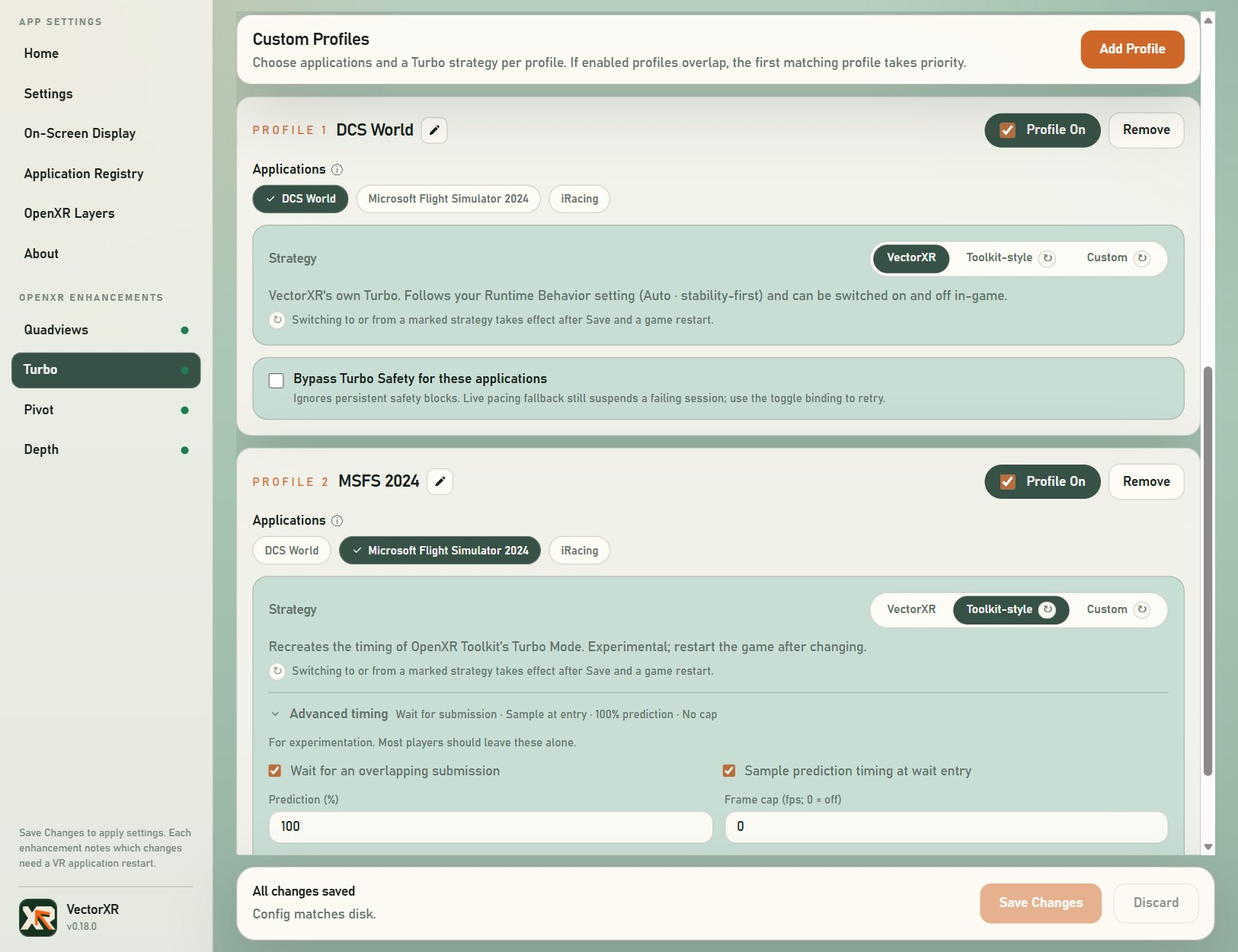
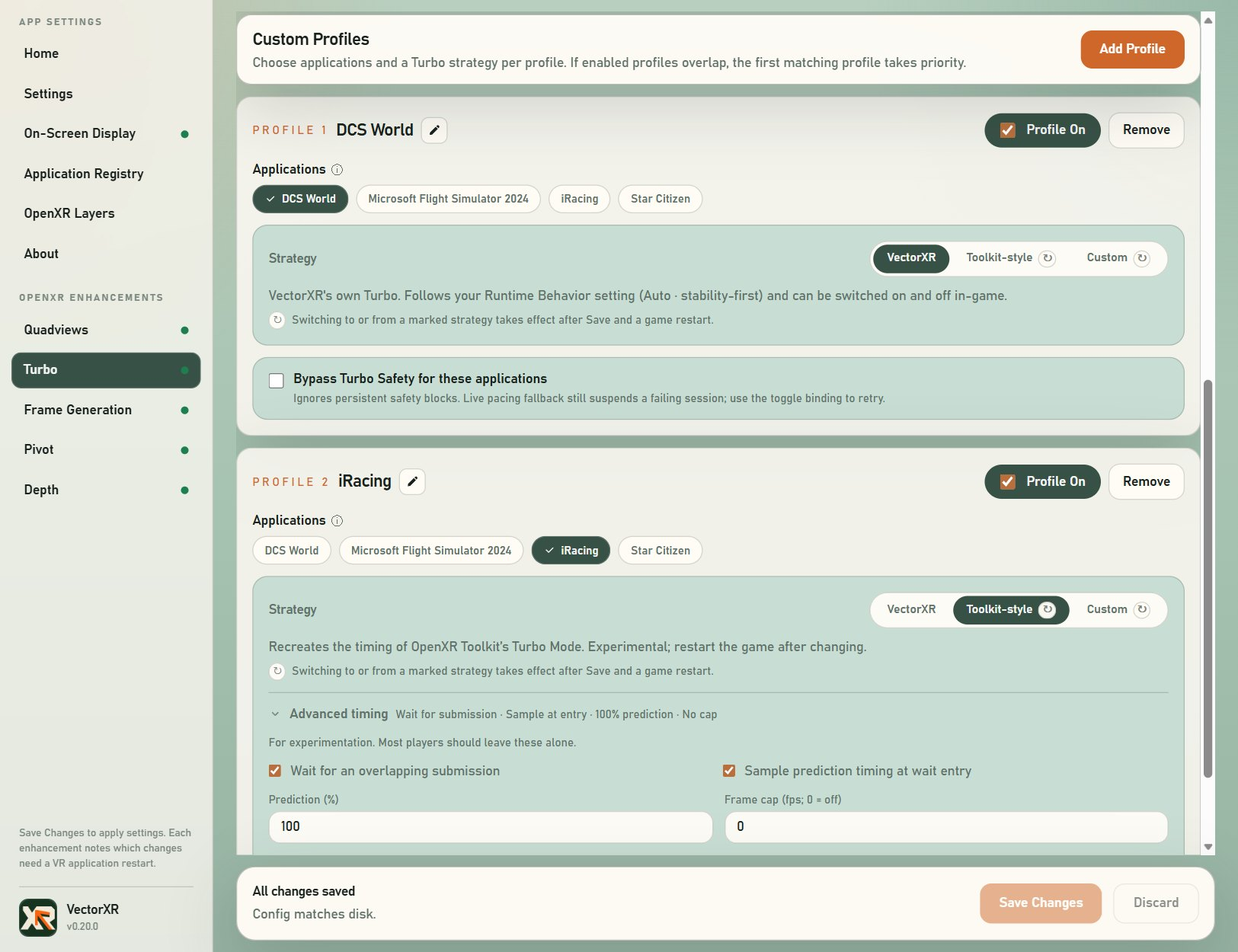
Refresh the README, usage guide and screenshots for 0.20
Recapture every documentation screenshot from the 0.20 app and add the
first Frame Generation shots (the page, and a profile with NVIDIA hardware
motion and the Shader fallback). The capture script now answers the About
tab's update check with the release being documented, so it reads current
instead of naming the previous release, and the sample configuration gives
Frame Generation its own games so its page shows no Turbo conflict notice.

README and usage guide: Turbo on SteamVR replaces the 0.17 activation note;
Interpolate can use hardware flow in Dynamic with the automatic fallback;
depth is used in Direct3D 12 and Vulkan games (not through the Direct3D 11
bridge), sharpens nearby detail, and shows as "uses depth" on the OSD;
eleven languages; VectorXR Enabled off now also stops the OSD; eye
tracking while another window has focus and the no-data log line; and a
Varjo FAQ on overlays at the Peripheral resolution.

The About intro names Turbo and Frame Generation, in all eleven languages.

diff --git a/scripts/docs-screenshots/capture.ts b/scripts/docs-screenshots/capture.ts
@@ -11,7 +11,7 @@
 // Uses headless Microsoft Edge through the Chrome DevTools Protocol, so no
 // browser automation package is required. Set VECTORXR_BROWSER to use Chrome.
 import { spawn } from 'node:child_process'
-import { mkdtempSync, rmSync, writeFileSync } from 'node:fs'
+import { mkdtempSync, readFileSync, rmSync, writeFileSync } from 'node:fs'
 import { tmpdir } from 'node:os'
 import { dirname, join, resolve } from 'node:path'
 import { fileURLToPath } from 'node:url'
@@ -28,11 +28,13 @@ const language = process.env.VECTORXR_SHOTS_LANGUAGE ?? ''
 class Cdp {
   private id = 0
   private pending = new Map<number, { resolve: (value: any) => void; reject: (error: Error) => void }>()
+  private listeners = new Map<string, (params: any) => void>()
   private socket: WebSocket
   constructor(socket: WebSocket) {
     this.socket = socket
     socket.addEventListener('message', (event) => {
       const message = JSON.parse(String(event.data))
+      if (message.method) this.listeners.get(message.method)?.(message.params)
       const waiter = message.id ? this.pending.get(message.id) : undefined
       if (!waiter) return
       this.pending.delete(message.id)
@@ -50,7 +52,32 @@ class Cdp {
     this.socket.send(JSON.stringify({ id, method, params }))
     return new Promise<any>((resolve, reject) => this.pending.set(id, { resolve, reject }))
   }
+  on(method: string, listener: (params: any) => void) { this.listeners.set(method, listener) }
   close() { this.socket.close() }
+}
+
+// The About tab's update check asks GitHub for the latest release. Answer it
+// with the release being documented (the newest patch notes entry), so the
+// screenshots show it as current before it is published.
+async function answerUpdateCheck(cdp: Cdp) {
+  const [release] = JSON.parse(readFileSync(join(root, 'app', 'src', 'lib', 'patchNotes.json'), 'utf8'))
+  const body = JSON.stringify({
+    tag_name: `v${release.version}`,
+    name: `VectorXR ${release.version}`,
+    html_url: `https://github.com/DienerTech/vectorxr/releases/tag/v${release.version}`,
+    published_at: `${release.date}T12:00:00Z`,
+    body: '',
+    assets: [],
+  })
+  cdp.on('Fetch.requestPaused', (event) => {
+    void cdp.send('Fetch.fulfillRequest', {
+      requestId: event.requestId,
+      responseCode: 200,
+      responseHeaders: [{ name: 'Content-Type', value: 'application/json' }, { name: 'Access-Control-Allow-Origin', value: '*' }],
+      body: Buffer.from(body).toString('base64'),
+    })
+  })
+  await cdp.send('Fetch.enable', { patterns: [{ urlPattern: '*api.github.com/repos/DienerTech/vectorxr/releases*' }] })
 }
 
 const sleep = (ms: number) => new Promise((done) => setTimeout(done, ms))
@@ -133,6 +160,10 @@ const shots: Shot[] = [
   { name: 'home', tabOnly: true, run: tab('home') },
   { name: 'home-dark', theme: 'dark', tabOnly: true, run: tab('home') },
   { name: 'settings', tabOnly: true, run: tab('core') },
+  { name: 'framegen', tabOnly: true, run: tab('framegen') },
+  { name: 'framegen-profiles', run: async (p) => {
+    await p.tab('framegen'); await p.scrollTo('Custom Profiles', 16, 'h2, h3, p, span, div')
+  } },
   { name: 'osd', run: async (p) => { await p.tab('osd'); await p.click('Legible'); await p.top() } },
   { name: 'osd-compact', run: async (p) => {
     await p.tab('osd'); await p.click('Compact'); await p.click('Legible'); await p.scrollTo('Compact', 16, 'button')
@@ -175,6 +206,7 @@ async function main() {
     const cdp = await Cdp.connect(target.webSocketDebuggerUrl)
     await cdp.send('Page.enable')
     await cdp.send('Runtime.enable')
+    await answerUpdateCheck(cdp)
     await cdp.send('Emulation.setDeviceMetricsOverride', { ...viewport, mobile: false })
     await cdp.send('Emulation.setEmulatedMedia', { features: [{ name: 'prefers-reduced-motion', value: 'reduce' }] })
     const page = new Page(cdp)

diff --git a/scripts/docs-screenshots/seed-config.ts b/scripts/docs-screenshots/seed-config.ts
@@ -1,6 +1,7 @@
 // Builds the sample configuration shown in documentation screenshots, using
 // the desktop app's own model factories so it always matches the schema.
 import {
+  createFrameGenProfile,
   createPivotProfile,
   createPivotQuickView,
   createProfile,
@@ -18,6 +19,7 @@ export function sampleConfig() {
     { id: 'dcs-world', name: 'DCS World', enabled: true, match: { exe: 'DCS.exe' } },
     { id: 'msfs-2024', name: 'Microsoft Flight Simulator 2024', enabled: true, match: { exe: 'FlightSimulator2024.exe' } },
     { id: 'iracing', name: 'iRacing', enabled: true, match: { exe: 'iRacingSim64DX11.exe' } },
+    { id: 'star-citizen', name: 'Star Citizen', enabled: true, match: { exe: 'StarCitizen.exe' } },
   ]
   config.applications = applications
 
@@ -30,10 +32,18 @@ export function sampleConfig() {
   modules.turbo.enabled = false
   const dcsTurbo = createTurboProfile(['dcs-world'])
   dcsTurbo.name = 'DCS World'
-  const msfsTurbo = createTurboProfile(['msfs-2024'])
-  msfsTurbo.name = 'MSFS 2024'
-  msfsTurbo.experimental = { ...toolkitInspiredTurboExperimental(), applicationIds: [] }
-  modules.turbo.profiles = [dcsTurbo, msfsTurbo]
+  const iracingTurbo = createTurboProfile(['iracing'])
+  iracingTurbo.name = 'iRacing'
+  iracingTurbo.experimental = { ...toolkitInspiredTurboExperimental(), applicationIds: [] }
+  modules.turbo.profiles = [dcsTurbo, iracingTurbo]
+
+  modules.framegen.enabled = false
+  const msfsFrameGen = createFrameGenProfile(modules.framegen.defaults, ['msfs-2024'])
+  msfsFrameGen.name = 'MSFS 2024'
+  msfsFrameGen.settings.motionEstimation = 'hardware'
+  const scFrameGen = createFrameGenProfile(modules.framegen.defaults, ['star-citizen'])
+  scFrameGen.name = 'Star Citizen'
+  modules.framegen.profiles = [msfsFrameGen, scFrameGen]
 
   modules.pivotxr.enabled = true
   modules.pivotxr.behavior = 'snapViews'

diff --git a/docs/usage.md b/docs/usage.md
@@ -46,7 +46,10 @@ This is the core idea, so it's worth understanding before you start clicking. Fo
 Enhancement, settings resolve in layers:
 
 1. **Runtime master switch** — *VectorXR Enabled* in **Settings**. If this is off, no
-   Enhancement does anything, regardless of profiles. It is on by default.
+   Enhancement does anything, regardless of profiles, and the On-Screen Display, its bindings and
+   sounds are off too. It is on by default. Switching it off during a session stops generated
+   frames at once; a session's four-view layout, Frame Generation pacing and graphics bridge stay
+   until the game restarts.
 2. **Default Profile** — one baseline per Enhancement. It *applies to applications without an
    enabled custom profile*. Ships **off**. Turn it on when you want an Enhancement to apply
    broadly to anything you haven't given a specific profile.
@@ -436,6 +439,15 @@ VectorXR can remain enabled for Pivot or Depth, with Quad-Views-Foveated ordered
 Turn on **Use Eye Tracking** in DCS and eye tracking in the headset software. The active OpenXR
 runtime must expose eye-gaze data to the layer; otherwise head/static focus is the safe fallback.
 
+If the runtime connects eye gaze but sends no gaze for 10 seconds while the game has focus, the
+VectorXR log says the headset's eye tracker isn't delivering data. Check that eye tracking is on
+and calibrated in the headset's software; toggling eye tracking off and on there can restart a
+stuck tracker.
+
+On SteamVR, a desktop or app window floating in VR (for example on Steam Frame) takes input focus
+from the game. VectorXR keeps using your gaze then whenever the runtime still provides it; when
+it doesn't, the focus centres on your head until the game has focus again.
+
 **Why does eye-tracked focus move backwards?**
 
 Try **Eye Tracking Correction → Flip Z Only** in the matching Quadviews profile.
@@ -456,6 +468,14 @@ this visualization; the saved in-headset shortcut also begins each new session w
 It is also unavailable in the rare session where Frame Generation generates frames from the composed
 image instead of composing the quad views itself, and the app reads **Unavailable in the active
 OpenXR session**: turn Frame Generation off for the game and restart the game to use it there.
+
+**Why do overlays such as OpenKneeboard look jagged at the edges of my view on Varjo?**
+
+On Varjo headsets, the Varjo runtime draws overlays into the same views the game renders, at their
+resolution. Outside the focus area an overlay therefore gets your **Peripheral** resolution, and
+fine text aliases at low values. VectorXR does not change the overlay itself. Raise Peripheral
+(100% matches Varjo's default) if overlays in your peripheral vision matter more than the
+performance gain.
 
 **What else should I disable while troubleshooting?**
 
@@ -541,16 +561,18 @@ on Auto for discovery; forced Async or Sequenced and manual runtime pins take pr
 A full strategy retest needs a relaunch in Auto without a manual override. An established
 Sequenced session keeps that strategy until relaunch even if you change the setting.
 
-#### SteamVR activation in 0.17
+#### Turbo on SteamVR
 
-The previous VectorXR activation restriction for **DCS + SteamVR + synthesized Quadviews**
-has been removed. This setup can now engage Turbo and use the same Auto strategy selection
-and Safety controls as other setups.
+SteamVR refuses a frame whose display time is older than the previous frame's prediction, and
+drops it. Turbo's frame pipelining could submit such frames, most often in DCS; before 0.20,
+three in a row switched Turbo off for the session, with **XR_ERROR_TIME_INVALID** in the log.
+VectorXR 0.20 never submits a display time SteamVR will refuse, and in Sequenced pacing it gives
+the game the timing of the refresh its frame will actually reach, so Turbo runs on SteamVR like on
+other runtimes. Runtimes that accept older display times, such as Pimax's, behave as before.
 
-This removes an application/runtime restriction, not a runtime-enforced FPS cap. Turbo
-still depends on the game, headset, driver, and runtime. Disable **SteamVR Motion Smoothing**
-when testing and compare both frame times and presentation. Other reprojection systems,
-including ASW, may also conflict with Turbo's timing.
+Turbo removes no runtime-enforced FPS cap, and still depends on the game, headset, driver, and
+runtime. Compare both frame times and presentation when testing. Turbo keeps runtime
+reprojection such as SteamVR Motion Smoothing or ASW from working, so use one or the other.
 
 #### Turbo Safety
 
@@ -647,13 +669,16 @@ image every refresh even when the game renders fewer. With the default **Dynamic
 fill the refreshes in between; a **Fixed** rate holds the game at a fraction of the refresh rate
 instead (2x, 3x, 4x, or Auto).
 
+![VectorXR Frame Generation page](screenshots/framegen.jpg)
+
 Generated frames come from GPU optical flow measured on the final color images the game
 submits. VectorXR removes your head rotation from the flow before matching, because the
 runtime's own reprojection already handles head rotation, so the flow follows world,
 vehicle, and object motion.
 
 Frame Generation is experimental. Keep the Default Profile off and enable it per game after
-comparing it in the headset. It has been tested on one PC so far:
+comparing it in the headset. It is developed and tested mainly on one PC, and beta testers have
+also run it on Varjo headsets and on Steam Frame through SteamVR:
 
 - **GPU:** NVIDIA GeForce RTX 5090.
 - **Headset and runtimes:** Pimax Crystal Super on PiOpenXR, Pimax's OpenXR runtime, and on
@@ -692,10 +717,11 @@ Report Frame Generation problems to VectorXR rather than to the game's developer
    game. An enabled matching custom profile turns Frame Generation on for that game even when
    the Default Profile is off.
 6. Start with the default settings (**Mode: Interpolate**, **Frame rate: Dynamic**, **Motion
-   source: Shader**), then click **Save Changes**. In Dynamic, Interpolate measures motion on the
-   GPU's shader cores. **NVIDIA hardware** motion, on an NVIDIA RTX GPU, is best with
-   **Extrapolate**, which has the lowest latency: try the two together. At a fixed or Auto frame
-   rate Interpolate can use it too (experimental).
+   source: Shader**), then click **Save Changes**. On an NVIDIA RTX GPU, try **NVIDIA hardware**
+   as the motion source: Interpolate uses it at every frame rate, Dynamic included, and with
+   **Fall back to Shader when hardware flow can't keep up** on (the default) switches to Shader
+   while the hardware can't keep pace. **Extrapolate**, which has the lowest latency, looks best
+   with NVIDIA hardware.
 7. Restart the game. Turning Frame Generation on, for the Default Profile or a custom profile,
    takes effect at the next launch. Turning it off applies to a running game at once: frames
    pass straight through.
@@ -738,7 +764,8 @@ stand still for a refresh and then jump.
 
 #### Game depth
 
-When a game sends depth to the headset, Frame Generation uses it on Direct3D 12 automatically.
+When a game sends depth to the headset, Frame Generation uses it automatically in Direct3D 12
+games, and in Vulkan games through the Vulkan bridge.
 MSFS 2024 only fills the depth it sends while its **Motion reprojection** setting is **Depth**;
 with it off, the depth is empty and Frame Generation does without. With depth, head movement is
 compensated exactly, so cockpit instruments, panels and text stay still in generated frames
@@ -746,8 +773,11 @@ instead of wobbling. Generated frames also show the
 cockpit from where your eyes will be when each frame is displayed: they keep moving as they did
 between the game's last two frames. Most headset runtimes only correct head rotation between
 frames, so without this, near cockpit detail would jump at the game's frame rate whenever your
-head moved. Direct3D 11 and Vulkan games
-use head rotation only for now.
+head moved. Depth also lets generated frames resample nearby content with a sharper (cubic)
+filter, so cockpit detail stays crisper. Direct3D 11 games such as DCS keep their depth to
+themselves through the Direct3D 11 bridge, so they use head rotation only for now, and Star
+Citizen's depth currently arrives empty. When a game supplies useful depth for only one eye,
+Frame Generation can use it for the other eye too.
 
 Games do not always describe their depth correctly, so Frame Generation first checks it against
 the other eye: depth that is right lines the two eyes' images up. It starts using depth once
@@ -769,7 +799,8 @@ Generated frames finishing much later than that miss their refresh, and the head
 previous frame again. **skippedGenerated** counts generated frames passed over because they were
 made for a refresh already past.
 
-The Frame Generation page's session status shows **Using game depth** while depth is in use,
+While depth is in use, the On-Screen Display's Frame Generation line ends with **uses depth**,
+and the Frame Generation page's session status shows **Using game depth**. The status shows
 **Game depth is empty** when the game sends depth but fills it only with its own depth-based
 reprojection on (turn that option on), or **Game depth not used** when the depth does not line
 the eyes up. The log reports every other case.
@@ -837,6 +868,8 @@ report the game process's video memory use and budget, and how much of it Frame 
 working images and output images take.
 
 #### Frame Generation settings
+
+![Frame Generation custom profile with NVIDIA hardware motion and the Shader fallback](screenshots/framegen-profiles.jpg)
 
 Every setting below applies live after **Save Changes**. Only turning Frame Generation on
 needs a game restart; turning it off applies at once.
@@ -961,7 +994,8 @@ engages, or sooner once the game's own frames show the runtime giving them every
 #### Current limits
 
 - Frame Generation does not use game motion vectors yet; motion is estimated from color
-  images, with the game's depth (Direct3D 12) used only to remove head movement.
+  images, with the game's depth (Direct3D 12, and Vulkan through the bridge) used to remove head
+  movement and sharpen nearby detail.
 - There is no HUD masking yet. Text, HUDs, and gauges baked into the 3D image can shimmer on
   generated frames.
 - Fast motion and newly revealed areas can warp, more so with Extrapolate. Raise **Artifact
@@ -1008,7 +1042,8 @@ on, save, restart the game, then use the binding.
 
 Interpolate has the fewest artifacts and adds about one real frame interval of latency;
 Extrapolate adds none and has more artifacts, and looks best with **NVIDIA hardware** as the
-motion source.
+motion source. On an NVIDIA RTX GPU, Interpolate can use NVIDIA hardware too, with an automatic
+fallback to Shader.
 
 **Why do HUDs, gauges, and text shimmer?**
 
@@ -1113,7 +1148,10 @@ or **FG N/A**. The Frame Generation row reads, for example, `On / Interpolate / 
 GPU time of Frame Generation's motion analysis of the latest real frame: writing each generated
 frame comes on top of it, and with NVIDIA optical flow most of it is the hardware's latency), or
 **Standby**, **Starting**, **Paused**, or **Unavailable**
-with the reason on the second line. The compact row is shorter, such as `Dynamic / 45 → 90 fps`.
+with the reason on the second line. While generated frames use the game's depth, the second line
+ends with **uses depth**, for example `45 → 90 fps / GPU 3.1 ms / uses depth`; depth that the game
+sends but that fails Frame Generation's checks is not noted (see [Game depth](#game-depth)). The
+compact row is shorter, such as `Dynamic / 45 → 90 fps`.
 
 The Pivot row starts with **Motion:**. It reads **Active** or **Releasing**, followed by
 **Continuous** or **Stepped**, **+ Position** while Position Assist moves you, and the profile

diff --git a/README.md b/README.md
@@ -15,8 +15,8 @@ Developed by DienerTech LLC.
 - Tune stereo depth and convergence through the Depth module.
 - Configure enhanced yaw and pitch rotation through the Pivot module.
 - Drive foveated-style rendering with a visible performance budget through the Quadviews module.
-- Override OpenXR runtime frame pacing per application with Turbo and compare strategies using built-in diagnostics.
-- Add optical-flow generated frames between real frames with experimental [Frame Generation](docs/usage.md#frame-generation-experimental), so the headset gets a fresh image every refresh even when the game renders fewer.
+- Override OpenXR runtime frame pacing per application with Turbo, on SteamVR too, and compare strategies using built-in diagnostics.
+- Add optical-flow generated frames between real frames with experimental [Frame Generation](docs/usage.md#frame-generation-experimental), so the headset gets a fresh image every refresh even when the game renders fewer. It can use NVIDIA's hardware optical flow and the game's depth.
 - Monitor application frame times, Turbo and Frame Generation state, and enhancements with a configurable [in-headset OSD](docs/usage.md#on-screen-display) for Direct3D 11, Direct3D 12, and Vulkan games.
 - Create per-application profiles so different OpenXR games can use different settings.
 - Track OpenXR apps VectorXR has seen and register them as profile targets.
@@ -25,6 +25,7 @@ Developed by DienerTech LLC.
 - View VectorXR runtime logs from inside the app.
 - Check for newer VectorXR releases from the About tab.
 - Import, export, reset, and validate local settings.
+- Use the app, tray, OSD, and installer in eleven languages: English, Simplified and Traditional Chinese, Japanese, Korean, German, French, Spanish, Brazilian Portuguese, Polish, and Russian.
 
 ## Screenshots
 
@@ -60,13 +61,14 @@ For the recommended DCS + synthesized VectorXR setup:
 
 - Turn on **Use Quad View** in DCS. Turn on **Use Eye Tracking** when you want gaze-tracked focus.
 - Keep the VectorXR OpenXR layer and the relevant VectorXR Quadviews profile enabled.
-- Use one software quadviews provider at a time. Disable `XR_APILAYER_MBUCCHIA_quad_views_foveated`; on Pimax, also turn **Native Pimax Quad Views** off. Native Varjo Quadviews remains runtime-driven.
+- Use one software quadviews provider at a time. Disable `XR_APILAYER_MBUCCHIA_quad_views_foveated`; on Pimax, also turn **Native Pimax Quad Views** off. Native Varjo Quadviews remains runtime-driven; on Varjo, overlays such as OpenKneeboard take the Peripheral resolution outside the focus area.
 
 Controls marked **Restart required** can be saved during play, but DCS must be fully restarted for their complete effect. See the usage guide's [live-update reference and Quadviews FAQ](docs/usage.md#live-tuning-and-restarts) for details, alternative layer setups, and common setup pitfalls.
 
-The in-headset diagnostic overlay now has a live session control and an interactive guide for
+The in-headset diagnostic overlay has a live session control and an interactive guide for
 reading render zones, focus alignment, gaze filtering, and tracking availability. See
 [Diagnostic visualization](docs/usage.md#diagnostic-visualization).
+
 ### Turbo
 
 ![VectorXR Turbo controls with Safety enabled](docs/screenshots/turbo.jpg)
@@ -76,7 +78,9 @@ Turbo provides an opt-in per-application frame-pacing override, automatic runtim
 Auto tries Async first, falls back to Sequenced when needed, and remembers a strategy after
 60 seconds of stable play. Custom profiles can also choose experimental **Toolkit-style** or
 **Custom** timing strategies, and Performance Diagnostics labels each capture with the strategy
-it used. Disable SteamVR Motion Smoothing when comparing Turbo; Turbo does not remove
+it used. Since 0.20 Turbo works on SteamVR, which used to reject some of its frames: see
+[Turbo on SteamVR](docs/usage.md#turbo-on-steamvr). Turbo keeps runtime reprojection such as
+SteamVR Motion Smoothing from working, so use one or the other, and it does not remove
 runtime-enforced FPS caps.
 
 ![VectorXR Turbo custom profiles with timing strategies](docs/screenshots/turbo-profiles.jpg)
@@ -93,19 +97,27 @@ See the [Turbo setup and Safety guide](docs/usage.md#turbo) for the controls and
 
 ### Frame Generation (experimental)
 
+![VectorXR Frame Generation page](docs/screenshots/framegen.jpg)
+
 Frame Generation inserts optical-flow generated frames between a game's frames, so the headset
 gets a fresh image every refresh even when the game renders fewer. By default (**Dynamic**) the
 game runs as fast as it can and generated frames fill the gaps; a **Fixed** rate (Auto, 2x, 3x,
 or 4x) holds it at a fraction of the refresh rate instead. Choose per profile between
-**Interpolate** (smoothest, fewest artifacts, a little latency), which measures motion on the
-GPU's shader cores, and **Extrapolate** (lowest latency, more edge artifacts), which can use an
-NVIDIA RTX GPU's optical flow hardware, and compare them in game with an A/B toggle and
-diagnostic views. The On-Screen Display shows **FG ON** and the headset's frame rate beside its
-FPS. It works with Direct3D 11, Direct3D 12, and Vulkan games, in stereo or Quadviews.
+**Interpolate** (smoothest, fewest artifacts, a little latency) and **Extrapolate** (lowest
+latency, more edge artifacts), and compare them in game with an A/B toggle and diagnostic views.
+Motion is measured on the GPU's shader cores on any GPU, or with an NVIDIA RTX GPU's optical flow
+hardware, which Interpolate falls back from automatically when it can't keep up. Where a game
+sends usable depth (Direct3D 12, and Vulkan through the bridge), generated frames use it to keep
+cockpit detail still and sharp. The On-Screen Display shows **FG ON** and the headset's frame
+rate beside its FPS, and notes **uses depth** while depth helps. It works with Direct3D 11,
+Direct3D 12, and Vulkan games, in stereo or Quadviews.
 
-It is experimental, and tested on one PC so far: an NVIDIA RTX 5090 with a Pimax Crystal Super on
-PiOpenXR and SteamVR, in DCS (Direct3D 11 with quad views), MSFS 2024 (Direct3D 12), and Star Citizen
-(Vulkan). AMD and Intel GPUs are untested: measuring motion on the shader cores works on any GPU,
+![VectorXR Frame Generation custom profile settings](docs/screenshots/framegen-profiles.jpg)
+
+It is experimental, and developed and tested mainly on one PC: an NVIDIA RTX 5090 with a Pimax
+Crystal Super on PiOpenXR and SteamVR, in DCS (Direct3D 11 with quad views), MSFS 2024 (Direct3D
+12), and Star Citizen (Vulkan); beta testers have also run it on Varjo headsets and on Steam Frame.
+AMD and Intel GPUs are untested: measuring motion on the shader cores works on any GPU,
 but the bridges that carry Direct3D 11 and Vulkan games' images to Frame Generation have not been
 verified on AMD. Motion is measured on the final images (no game motion vectors yet), text and
 HUDs can shimmer on generated frames, and the real frames it keeps take video memory: about
@@ -123,8 +135,8 @@ online games with anti-cheat, it is at your own risk: see [Current Status](#curr
 The On-Screen Display adds an optional head-following panel in Direct3D 11, Direct3D 12, and
 Vulkan games showing application FPS, frame times, a frame-time graph, CPU and GPU headroom
 with video memory, Turbo and Frame Generation state, Pivot, and active enhancements. Choose compact or expanded layouts, place the panel with a live preview,
-customize its contents and colors, save presets, and show or switch it in game with
-**Ctrl+Alt+F10** and **Ctrl+Alt+F11**. See the [On-Screen Display guide](docs/usage.md#on-screen-display).
+customize its contents and colors, save presets, pick its language (or follow the app's), and show
+or switch it in game with **Ctrl+Alt+F10** and **Ctrl+Alt+F11**. See the [On-Screen Display guide](docs/usage.md#on-screen-display).
 
 ### Application Registry
 
@@ -142,7 +154,7 @@ The OpenXR layer manager inspects installed implicit API layers across the Windo
 
 ![VectorXR Settings tab](docs/screenshots/settings.jpg)
 
-Settings holds the runtime master switch, theme, the system tray icon, discovered-app tracking, logging and the debug export, sound feedback volume, and config import/export/reset.
+Settings holds the runtime master switch, the app language, theme, the system tray icon, discovered-app tracking, input rescan, logging and the debug export, sound feedback volume, and config import/export/reset.
 
 ### About And Updates
 
